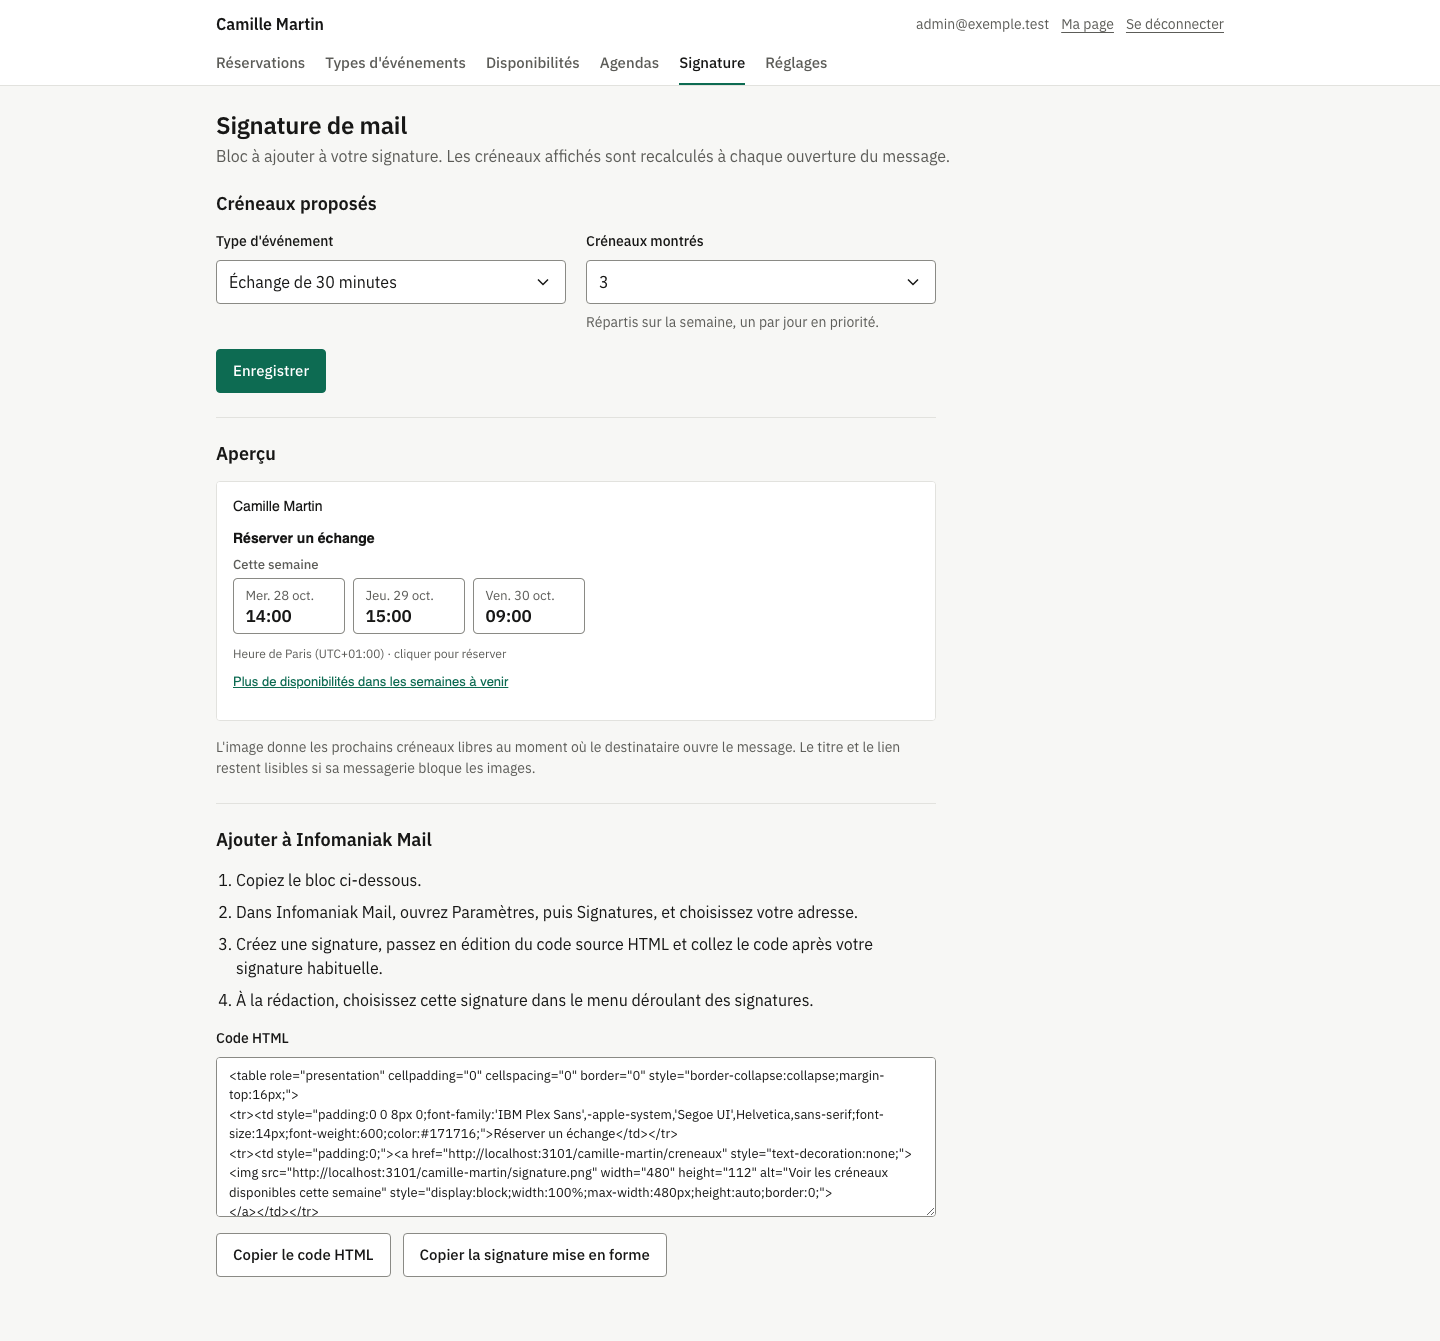
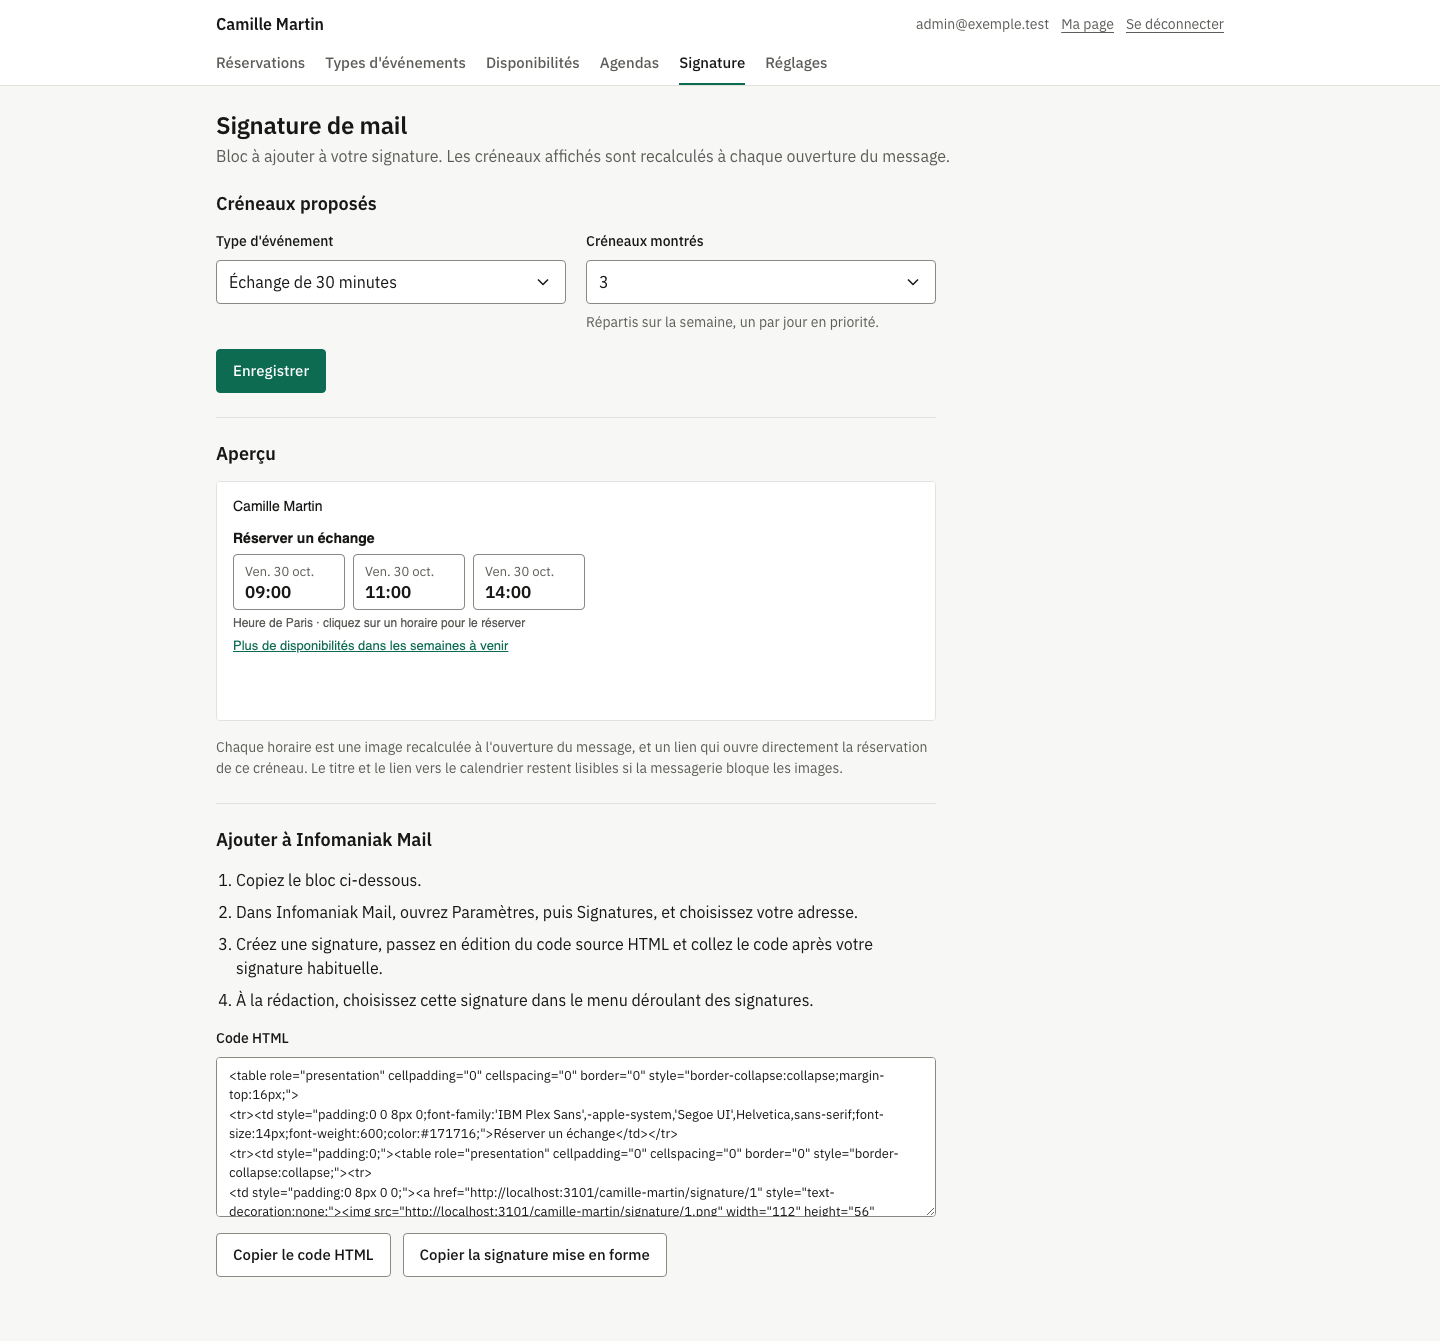
Signature : chaque créneau est une image et un lien de réservation directe

Changed region(s): [[0.1562, 0.8561, 0.625, 0.9172], [0.1562, 0.3975, 0.375, 0.5198], [0.1562, 0.5503, 0.625, 0.5809]]

diff --git a/src/web/signature.ts b/src/web/signature.ts
@@ -11,6 +11,11 @@ import { woffToSfnt } from "../lib/woff.js";
 
 export const SIGNATURE_WIDTH = 480;
 export const SIGNATURE_HEIGHT = 112;
+// Pastille d'un créneau : une image par créneau, chacune liée à sa propre réservation.
+export const CHIP_WIDTH = 112;
+export const CHIP_HEIGHT = 56;
+export const CHIP_GAP = 8;
+export const MAX_CHIPS = 4;
 const SCALE = 2;
 const FONT = "IBM Plex Sans";
 const TEXT = "#171716";
@@ -67,6 +72,33 @@ export function signatureSvg(selection: SignatureSelection, now: number): string
   ].join("");
 }
 
+// Pastille du créneau n (à partir de 1) de la sélection. Sans créneau à cette place, la première pastille
+// renvoie vers les disponibilités et les suivantes restent blanches.
+export function chipSvg(selection: SignatureSelection, n: number): string {
+  const slot = selection.status === "ok" ? selection.slots[n - 1] : undefined;
+  const parts: string[] = [];
+  const text = (x: number, y: number, size: number, family: string, color: string, value: string) =>
+    parts.push(`<text x="${x}" y="${y}" font-family="${family}" font-size="${size}" fill="${color}">${escapeXml(value)}</text>`);
+  const box = () =>
+    parts.push(`<rect x="0.5" y="0.5" width="${CHIP_WIDTH - 1}" height="${CHIP_HEIGHT - 1}" rx="4" fill="#ffffff" stroke="${LINE}" stroke-width="1"/>`);
+  if (slot !== undefined) {
+    const d = DateTime.fromMillis(slot, { zone: selection.zone }).setLocale("fr");
+    box();
+    text(12, 22, 13, FONT, TEXT_2, capitalize(d.toFormat("ccc d LLL")));
+    text(12, 44, 17, `${FONT} SemiBold`, TEXT, d.toFormat("HH:mm"));
+  } else if (n === 1) {
+    box();
+    text(12, 22, 13, FONT, TEXT_2, selection.status === "empty" ? "Semaines à venir" : "En ligne");
+    text(12, 44, 15, `${FONT} SemiBold`, TEXT, "Voir les dates");
+  }
+  return [
+    `<svg xmlns="http://www.w3.org/2000/svg" width="${CHIP_WIDTH * SCALE}" height="${CHIP_HEIGHT * SCALE}" viewBox="0 0 ${CHIP_WIDTH} ${CHIP_HEIGHT}">`,
+    `<rect width="${CHIP_WIDTH}" height="${CHIP_HEIGHT}" fill="#ffffff"/>`,
+    ...parts,
+    "</svg>",
+  ].join("");
+}
+
 export class SignatureRenderer {
   private readonly fontFiles: string[];
   private readonly cache = new Map<string, { expires: number; png: Buffer }>();
@@ -83,10 +115,20 @@ export class SignatureRenderer {
 
   render(selection: SignatureSelection, now: number): Buffer {
     const key = JSON.stringify([selection.status, selection.week, selection.zone, selection.slots]);
+    return this.cached(key, now, () => signatureSvg(selection, now));
+  }
+
+  // Pastille du créneau n, pour la signature où chaque créneau est un lien.
+  renderChip(selection: SignatureSelection, n: number, now: number): Buffer {
+    const slot = selection.status === "ok" ? selection.slots[n - 1] : undefined;
+    const key = JSON.stringify(["chip", n, selection.status, selection.zone, slot ?? null]);
+    return this.cached(key, now, () => chipSvg(selection, n));
+  }
+
+  private cached(key: string, now: number, svg: () => string): Buffer {
     const hit = this.cache.get(key);
     if (hit && hit.expires > now) return hit.png;
-    const svg = signatureSvg(selection, now);
-    const png = new Resvg(svg, {
+    const png = new Resvg(svg(), {
       font: { fontFiles: this.fontFiles, loadSystemFonts: false, defaultFontFamily: FONT },
       background: "#ffffff",
     })
@@ -99,16 +141,30 @@ export class SignatureRenderer {
 }
 
 // Bloc HTML de signature, compatible avec les messageries : tableau, styles en ligne, URL absolues.
-// hostSlug : adresse de la page de la personne ; slug : type d'événement du lien vers le calendrier complet.
-export function signatureHtml(opts: { baseUrl: URL; hostSlug: string; slug: string; accent: string }): string {
+// hostSlug : adresse de la page de la personne ; slug : type d'événement du lien vers le calendrier complet ;
+// count : nombre de créneaux, chacun une image liée à /personne/signature/n, qui ouvre la réservation du créneau
+// affiché à cette place au moment du clic ; zone : fuseau du planning, dans lequel les heures sont écrites.
+export function signatureHtml(opts: { baseUrl: URL; hostSlug: string; slug: string; accent: string; count: number; zone: string }): string {
   const url = (p: string) => new URL(p, opts.baseUrl).toString();
   const font = "font-family:'IBM Plex Sans',-apple-system,'Segoe UI',Helvetica,sans-serif;";
+  const count = Math.min(Math.max(opts.count, 1), MAX_CHIPS);
+  const city = (opts.zone.split("/").pop() ?? opts.zone).replaceAll("_", " ");
+  const chips = Array.from({ length: count }, (_, i) => {
+    const n = i + 1;
+    const pad = n < count ? `padding:0 ${CHIP_GAP}px 0 0;` : "padding:0;";
+    return (
+      `<td style="${pad}"><a href="${url(`/${opts.hostSlug}/signature/${n}`)}" style="text-decoration:none;">` +
+      `<img src="${url(`/${opts.hostSlug}/signature/${n}.png`)}" width="${CHIP_WIDTH}" height="${CHIP_HEIGHT}" alt="Créneau ${n} : réserver" style="display:block;width:${CHIP_WIDTH}px;height:${CHIP_HEIGHT}px;border:0;">` +
+      `</a></td>`
+    );
+  });
   return [
     `<table role="presentation" cellpadding="0" cellspacing="0" border="0" style="border-collapse:collapse;margin-top:16px;">`,
     `<tr><td style="padding:0 0 8px 0;${font}font-size:14px;font-weight:600;color:${TEXT};">Réserver un échange</td></tr>`,
-    `<tr><td style="padding:0;"><a href="${url(`/${opts.hostSlug}/creneaux`)}" style="text-decoration:none;">`,
-    `<img src="${url(`/${opts.hostSlug}/signature.png`)}" width="${SIGNATURE_WIDTH}" height="${SIGNATURE_HEIGHT}" alt="Voir les créneaux disponibles cette semaine" style="display:block;width:100%;max-width:${SIGNATURE_WIDTH}px;height:auto;border:0;">`,
-    `</a></td></tr>`,
+    `<tr><td style="padding:0;"><table role="presentation" cellpadding="0" cellspacing="0" border="0" style="border-collapse:collapse;"><tr>`,
+    ...chips,
+    `</tr></table></td></tr>`,
+    `<tr><td style="padding:6px 0 0 0;${font}font-size:12px;color:${TEXT_2};">Heure de ${escapeXml(city)} · cliquez sur un horaire pour le réserver</td></tr>`,
     `<tr><td style="padding:8px 0 0 0;${font}font-size:13px;"><a href="${url(`/${opts.hostSlug}/${opts.slug}`)}" style="color:${opts.accent};text-decoration:underline;">Plus de disponibilités dans les semaines à venir</a></td></tr>`,
     `</table>`,
   ].join("\n");

diff --git a/tests/integration/http.test.ts b/tests/integration/http.test.ts
@@ -395,6 +395,32 @@ describe("signature de mail", () => {
     expect(html).toContain('href="/camille-martin/echange-30-min?tz=Europe%2FParis"');
   });
 
+  it("chaque créneau de la signature a son image et ouvre sa réservation", async () => {
+    const { app } = await setup();
+    const img = await app.request(`${BASE}/camille-martin/signature/2.png`);
+    expect(img.status).toBe(200);
+    expect(img.headers.get("content-type")).toBe("image/png");
+    expect(img.headers.get("cache-control")).toContain("no-store");
+    expect(img.headers.get("cross-origin-resource-policy")).toBe("cross-origin");
+    expect((await app.request(`${BASE}/camille-martin/signature/5.png`)).status).toBe(404);
+
+    const html = await (await app.request(`${BASE}/camille-martin/creneaux?tz=Europe/Paris`)).text();
+    const links = [...html.matchAll(/href="(\/camille-martin\/echange-30-min\/reserver\?[^"]+)"/g)].map((m) => m[1]!.replaceAll("&amp;", "&"));
+    const res = await app.request(`${BASE}/camille-martin/signature/2`, { headers: { cookie: "tz=Europe/Paris" } });
+    expect(res.status).toBe(302);
+    expect(res.headers.get("location")).toBe(links[1]);
+    const form = await app.request(`${BASE}${res.headers.get("location")}`);
+    expect(await form.text()).toContain("Confirmer la réservation");
+  });
+
+  it("sans créneau à cette place, renvoie vers la liste des créneaux", async () => {
+    const { app, ctx } = await setup();
+    ctx.repo.updateSignature(demoUser(ctx).id, { eventTypeId: demoUser(ctx).signatureEventTypeId, maxSlots: 1 });
+    const res = await app.request(`${BASE}/camille-martin/signature/3`);
+    expect(res.status).toBe(302);
+    expect(res.headers.get("location")).toBe("/camille-martin/creneaux");
+  });
+
   it("sans type configuré, la page renvoie vers la page de la personne", async () => {
     const { app, ctx } = await setup();
     ctx.repo.updateSignature(demoUser(ctx).id, { eventTypeId: null, maxSlots: 3 });
@@ -402,6 +428,7 @@ describe("signature de mail", () => {
     expect(res.status).toBe(302);
     expect(res.headers.get("location")).toBe("/camille-martin");
     expect((await app.request(`${BASE}/camille-martin/signature.png`)).status).toBe(200);
+    expect((await app.request(`${BASE}/camille-martin/signature/1`)).headers.get("location")).toBe("/camille-martin");
   });
 
   it("administration réservée, aperçu isolé avec sa propre politique", async () => {
@@ -412,7 +439,8 @@ describe("signature de mail", () => {
     const page = await app.request(`${BASE}/admin/signature`, { headers: { cookie: `sid=${sid}` } });
     const html = await page.text();
     expect(html).toContain("Signature de mail");
-    expect(html).toContain("http://localhost:3000/camille-martin/signature.png");
+    expect(html).toContain("http://localhost:3000/camille-martin/signature/1.png");
+    expect(html).toContain("http://localhost:3000/camille-martin/signature/3&quot;");
     const preview = await app.request(`${BASE}/admin/signature/apercu`, { headers: { cookie: `sid=${sid}` } });
     expect(preview.headers.get("content-security-policy")).toContain("frame-ancestors 'self'");
     expect(preview.headers.get("x-frame-options")).toBe("SAMEORIGIN");

diff --git a/tests/unit/signature.test.ts b/tests/unit/signature.test.ts
@@ -3,7 +3,7 @@ import { DateTime } from "luxon";
 import { describe, expect, it } from "vitest";
 import { pickSpread, selectSignatureSlots } from "../../src/domain/signature.js";
 import { woffToSfnt } from "../../src/lib/woff.js";
-import { SignatureRenderer, signatureHtml, signatureSvg } from "../../src/web/signature.js";
+import { SignatureRenderer, chipSvg, signatureHtml, signatureSvg } from "../../src/web/signature.js";
 import { createContext, demoUser, fontFiles } from "../helpers.js";
 
 const PARIS = "Europe/Paris";
@@ -109,10 +109,34 @@ describe("image et bloc HTML", () => {
     expect(png.length).toBeGreaterThan(3000);
   });
 
-  it("bloc HTML compatible messagerie, URL absolues", () => {
-    const html = signatureHtml({ baseUrl: new URL("https://rdv.exemple.fr"), hostSlug: "camille-martin", slug: "echange-30-min", accent: "#0d6b52" });
-    expect(html).toContain('href="https://rdv.exemple.fr/camille-martin/creneaux"');
-    expect(html).toContain('src="https://rdv.exemple.fr/camille-martin/signature.png"');
+  it("une pastille par créneau, la première renvoie aux dates sans créneau", () => {
+    const ok = { status: "ok" as const, eventType: null, zone: PARIS, week: "current" as const, slots: [at("2027-01-05T14:00"), at("2027-01-06T09:00")] };
+    expect(chipSvg(ok, 2)).toContain("Mer. 6 janv.");
+    expect(chipSvg(ok, 2)).toContain("09:00");
+    expect(chipSvg(ok, 3)).not.toContain("<text");
+    const empty = { ...ok, status: "empty" as const, slots: [] };
+    expect(chipSvg(empty, 1)).toContain("Voir les dates");
+    expect(chipSvg(empty, 2)).not.toContain("<text");
+    const png = new SignatureRenderer(fontFiles()).renderChip(ok, 1, at("2027-01-04T08:00"));
+    expect(png.readUInt32BE(16)).toBe(224);
+    expect(png.readUInt32BE(20)).toBe(112);
+  });
+
+  it("bloc HTML compatible messagerie, URL absolues, un lien par créneau", () => {
+    const html = signatureHtml({
+      baseUrl: new URL("https://rdv.exemple.fr"),
+      hostSlug: "camille-martin",
+      slug: "echange-30-min",
+      accent: "#0d6b52",
+      count: 3,
+      zone: PARIS,
+    });
+    for (const n of [1, 2, 3]) {
+      expect(html).toContain(`href="https://rdv.exemple.fr/camille-martin/signature/${n}"`);
+      expect(html).toContain(`src="https://rdv.exemple.fr/camille-martin/signature/${n}.png"`);
+    }
+    expect(html).not.toContain("/signature/4");
+    expect(html).toContain("Heure de Paris");
     expect(html).toContain('href="https://rdv.exemple.fr/camille-martin/echange-30-min"');
     expect(html).toContain("<table");
     expect(html).not.toMatch(/<style|<script|class=/);

diff --git a/src/web/routes/admin.tsx b/src/web/routes/admin.tsx
@@ -346,6 +346,12 @@ function renderSchedule(c: Ctx, id: number | null, values: ScheduleValues, error
 
 // ===== Réglages : image =====
 
+// Bloc de signature d'une personne : un créneau par place, heures écrites dans le fuseau du planning.
+function signatureOptions(deps: Deps, user: User, et: EventType) {
+  const zone = deps.repo.getSchedule(et.scheduleId)?.timeZone ?? "Europe/Paris";
+  return { baseUrl: deps.config.baseUrl, hostSlug: user.slug, slug: et.slug, accent: user.accentColor, count: user.signatureMaxSlots, zone };
+}
+
 const MAX_AVATAR = 1024 * 1024;
 
 function imageType(bytes: Uint8Array): string | null {
@@ -664,7 +670,7 @@ export function adminRoutes(app: Hono<Env>): void {
         eventTypeId={form?.eventTypeId ?? String(configured?.id ?? eventTypes[0]?.id ?? "")}
         maxSlots={form?.maxSlots ?? String(user.signatureMaxSlots)}
         error={form?.error}
-        html={configured ? signatureHtml({ baseUrl: deps.config.baseUrl, hostSlug: user.slug, slug: configured.slug, accent: user.accentColor }) : null}
+        html={configured ? signatureHtml(signatureOptions(deps, user, configured)) : null}
       />,
       form ? 400 : 200,
     );
@@ -700,7 +706,7 @@ export function adminRoutes(app: Hono<Env>): void {
       `<!DOCTYPE html><html lang="fr"><head><meta charset="utf-8"><base target="_blank"><title>Aperçu</title></head>` +
         `<body style="margin:16px;background:#ffffff;color:#171716;font-family:'IBM Plex Sans',-apple-system,'Segoe UI',Helvetica,sans-serif;font-size:14px;">` +
         (name ? `<p style="margin:0;">${name}</p>` : "") +
-        signatureHtml({ baseUrl: deps.config.baseUrl, hostSlug: user.slug, slug: et.slug, accent: user.accentColor }) +
+        signatureHtml(signatureOptions(deps, user, et)) +
         `</body></html>`,
     );
   });

diff --git a/src/web/routes/public.tsx b/src/web/routes/public.tsx
@@ -349,6 +349,22 @@ export function publicRoutes(app: Hono<Env>): void {
     );
   });
 
+  // Créneau n de la signature de mail : formulaire de réservation du créneau affiché à cette place.
+  // La sélection est recalculée au clic ; le formulaire rappelle l'horaire avant confirmation.
+  app.get("/:user/signature/:n{[1-4]}", async (c) => {
+    const deps = c.get("deps");
+    const host = hostFrom(c);
+    if (!host) return notFound(c);
+    if (limited(c, "picker", 120, MINUTE)) return tooMany(c);
+    const selection = await selectSignatureSlots(deps.repo, deps.availability, host, deps.now());
+    if (selection.status === "disabled" || !selection.eventType) return c.redirect(hostPath(host), 302);
+    const slot = selection.status === "ok" ? selection.slots[Number(c.req.param("n")) - 1] : undefined;
+    if (slot === undefined) return c.redirect(`${hostPath(host)}/creneaux`, 302);
+    const { tz } = resolveTz(c, selection.zone);
+    const params = new URLSearchParams({ debut: new Date(slot).toISOString(), tz });
+    return c.redirect(`${eventPath(host, selection.eventType)}/reserver?${params.toString()}`, 302);
+  });
+
   // Étapes 1 et 2 : jour puis horaire.
   app.get("/:user/:slug", async (c) => {
     const found = eventTypeFrom(c);

diff --git a/src/web/app.tsx b/src/web/app.tsx
@@ -65,6 +65,21 @@ export function createApp(deps: Deps): Hono<Env> {
     return c.body(new Uint8Array(png));
   });
 
+  // Pastille d'un créneau de la signature : même régime que l'image complète.
+  app.get("/:user/signature/:file{[1-4]\\.png}", async (c) => {
+    const user = deps.repo.getUserBySlug(c.req.param("user"));
+    if (!user) return c.body(null, 404);
+    const now = deps.now();
+    const selection = await selectSignatureSlots(deps.repo, deps.availability, user, now);
+    const png = deps.signature.renderChip(selection, Number(c.req.param("file").charAt(0)), now);
+    c.header("Content-Type", "image/png");
+    c.header("Cache-Control", "no-store, no-cache, must-revalidate, max-age=0");
+    c.header("Pragma", "no-cache");
+    c.header("Expires", "0");
+    c.header("Cross-Origin-Resource-Policy", "cross-origin");
+    return c.body(new Uint8Array(png));
+  });
+
   app.get("/media/avatar/:id", (c) => {
     const id = Number(c.req.param("id"));
     const avatar = Number.isInteger(id) && id > 0 ? deps.repo.getAvatar(id) : null;

diff --git a/tests/e2e/booking.spec.ts b/tests/e2e/booking.spec.ts
@@ -177,6 +177,17 @@ test.describe("sans JavaScript", () => {
   });
 });
 
+test("depuis un créneau de la signature de mail : réservation directe", async ({ page }) => {
+  await page.goto(`${BASE}/camille-martin/creneaux`);
+  const time = (await page.locator(".shortlist-slot").nth(1).locator("strong").textContent())!.trim();
+  await page.goto(`${BASE}/camille-martin/signature/2`);
+  await expect(page.locator(".chosen")).toContainText(time);
+  await page.getByLabel("Nom").fill("Depuis Pastille");
+  await page.getByLabel("Email").fill("pastille@exemple.fr");
+  await page.getByRole("button", { name: "Confirmer la réservation" }).click();
+  await expect(page.getByRole("heading", { name: "Réservation confirmée" })).toBeVisible();
+});
+
 test("depuis la signature de mail : créneau de la semaine puis réservation", async ({ page }) => {
   await page.goto(`${BASE}/camille-martin/creneaux`);
   await expect(page.getByRole("heading", { name: "Réserver un échange" })).toBeVisible();

diff --git a/src/web/views/admin.tsx b/src/web/views/admin.tsx
@@ -1133,7 +1133,7 @@ export function SignaturePage(props: {
                 <h2>Aperçu</h2>
                 <iframe class="signature-frame" src="/admin/signature/apercu" title="Aperçu de la signature"></iframe>
                 <p class="hint">
-                  L'image donne les prochains créneaux libres au moment où le destinataire ouvre le message. Le titre et le lien restent lisibles si sa messagerie bloque les images.
+                  Chaque horaire est une image recalculée à l'ouverture du message, et un lien qui ouvre directement la réservation de ce créneau. Le titre et le lien vers le calendrier restent lisibles si la messagerie bloque les images.
                 </p>
               </section>
 

diff --git a/tests/e2e/screenshots.spec.ts b/tests/e2e/screenshots.spec.ts
@@ -175,8 +175,8 @@ test("signature de mail", async ({ page, request }) => {
   await expect(page.frameLocator(".signature-frame").getByText("Réserver un échange")).toBeVisible();
   await page.waitForFunction(() => {
     const frame = document.querySelector<HTMLIFrameElement>(".signature-frame");
-    const img = frame?.contentDocument?.querySelector("img");
-    return Boolean(img && img.complete && img.naturalWidth > 0);
+    const imgs = [...(frame?.contentDocument?.querySelectorAll("img") ?? [])];
+    return imgs.length > 0 && imgs.every((img) => img.complete && img.naturalWidth > 0);
   });
   await shoot(page, "52-admin-signature");
 });
